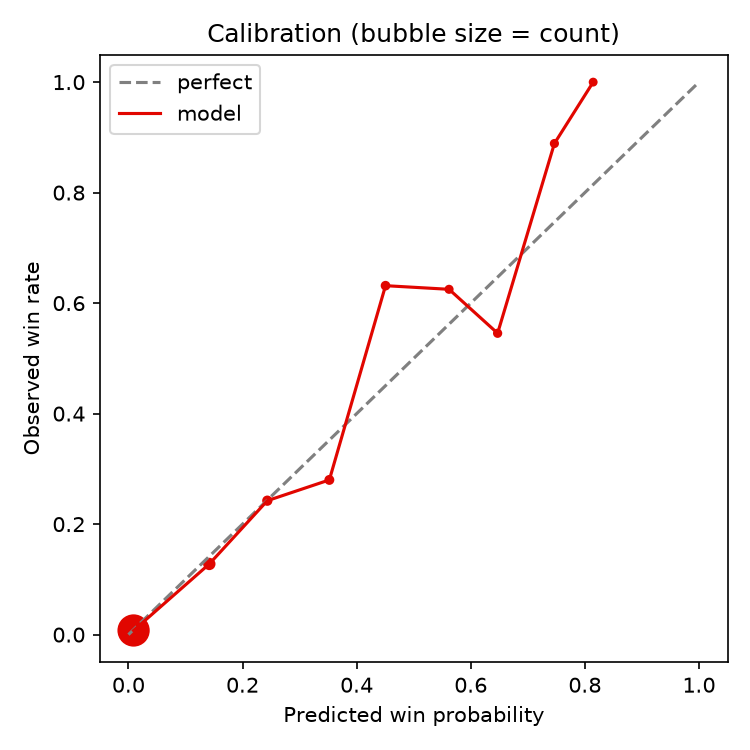
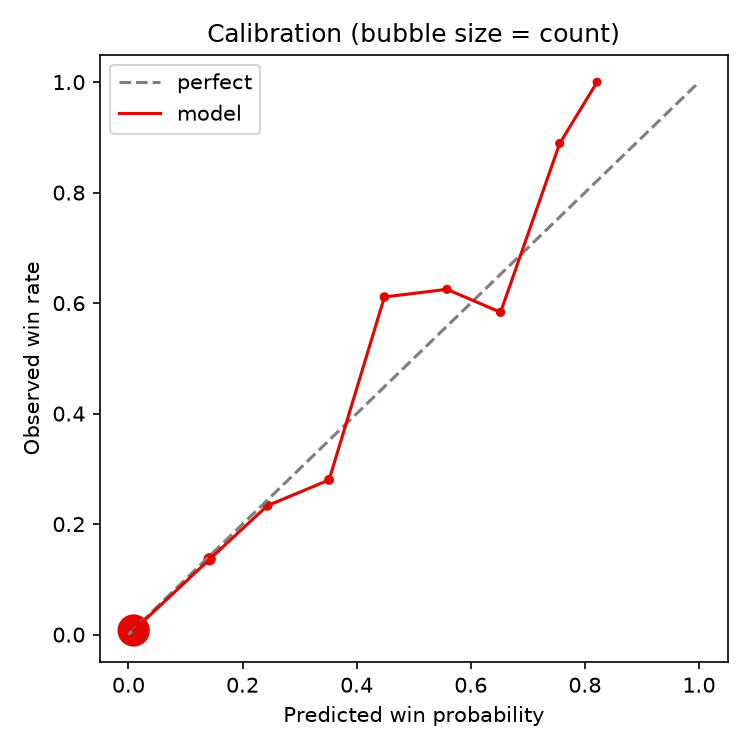
docs: driver profile results and final ablation
Claude-Session: https://claude.ai/code/session_01YJeHtrUFY8CEqTesftaBuB

diff --git a/README.md b/README.md
@@ -19,28 +19,28 @@ No qualifying data yet; running without grid
 Rain chance: 10% (forecast)
                     Azerbaijan Grand Prix 2026 (round 15)
  #   Driver                    Win   Podium   Points   Exp. pos   P10-P90
- 1   George Russell          20.1%    47.7%    87.2%        5.2      1-12
- 2   Andrea Kimi Antonelli   16.6%    43.6%    87.2%        5.4      1-12
- 3   Max Verstappen          16.2%    41.8%    86.7%        5.5      1-12
- 4   Lando Norris            13.4%    36.6%    83.6%        6.0      1-13
- 5   Oscar Piastri            8.9%    28.0%    78.3%        7.0      2-14
- 6   Charles Leclerc          7.4%    26.1%    76.5%        7.3      2-14
- 7   Lewis Hamilton           4.9%    18.1%    68.0%        8.5      2-16
- 8   Carlos Sainz             2.1%     7.6%    41.6%       11.8      4-19
- 9   Arvid Lindblad           1.8%     7.6%    46.1%       11.2      4-19
-10   Liam Lawson              1.7%     8.4%    49.1%       10.9      4-18
-11   Alexander Albon          1.3%     4.9%    29.3%       13.5      6-20
-12   Franco Colapinto         1.0%     5.2%    39.2%       12.2      5-19
-13   Gabriel Bortoleto        0.8%     4.4%    35.5%       12.7      5-20
-14   Fernando Alonso          0.7%     2.9%    24.1%       14.3      7-21
-15   Yuki Tsunoda             0.7%     2.7%    29.3%       13.6      6-20
-16   Pierre Gasly             0.6%     3.7%    33.4%       13.1      6-20
-17   Esteban Ocon             0.6%     3.2%    28.8%       13.6      6-20
-18   Nico Hülkenberg          0.5%     3.0%    27.6%       13.8      6-20
-19   Oliver Bearman           0.4%     2.6%    25.5%       14.1      7-21
-20   Sergio Pérez             0.1%     0.9%    12.4%       16.5     10-22
-21   Lance Stroll             0.1%     0.5%     6.8%       17.9     12-22
-22   Valtteri Bottas          0.0%     0.2%     3.9%       18.9     14-22
+ 1   Andrea Kimi Antonelli   17.9%    45.7%    87.5%        5.3      1-11
+ 2   George Russell          17.9%    44.4%    85.3%        5.6      1-12
+ 3   Max Verstappen          16.2%    41.2%    85.9%        5.6      1-12
+ 4   Lando Norris            13.0%    35.3%    82.2%        6.2      1-13
+ 5   Oscar Piastri            7.8%    25.1%    74.7%        7.5      2-15
+ 6   Charles Leclerc          7.5%    25.8%    75.1%        7.5      2-15
+ 7   Lewis Hamilton           5.3%    19.0%    68.2%        8.5      2-16
+ 8   Carlos Sainz             2.5%     8.7%    44.0%       11.5      4-19
+ 9   Liam Lawson              2.0%     9.4%    50.5%       10.7      4-18
+10   Arvid Lindblad           1.9%     7.9%    45.4%       11.2      4-19
+11   Alexander Albon          1.6%     5.4%    30.3%       13.3      5-20
+12   Franco Colapinto         1.2%     6.0%    40.7%       12.0      5-19
+13   Fernando Alonso          1.0%     3.4%    26.5%       13.9      6-20
+14   Gabriel Bortoleto        0.8%     4.1%    33.9%       12.9      5-20
+15   Yuki Tsunoda             0.8%     3.2%    30.1%       13.4      6-20
+16   Esteban Ocon             0.7%     3.8%    31.2%       13.2      6-20
+17   Pierre Gasly             0.7%     4.0%    33.7%       13.0      6-20
+18   Oliver Bearman           0.5%     3.0%    25.9%       14.1      7-21
+19   Nico Hülkenberg          0.4%     2.6%    24.1%       14.4      7-21
+20   Sergio Pérez             0.2%     1.1%    13.5%       16.3      9-22
+21   Lance Stroll             0.1%     0.7%     7.7%       17.8     12-22
+22   Valtteri Bottas          0.0%     0.2%     3.7%       19.0     14-22
                   * fewer than 5 rated races: low confidence
 ```
 
@@ -60,17 +60,46 @@ rest of the calendar 2,000 times and counts who ends up on top:
 ```text
            2026 drivers' championship (9 races left, 2,000 runs)
  #   Driver                  Points now   Exp. points    Title    Top 3
- 1   Andrea Kimi Antonelli          292           391    97.4%   100.0%
- 2   George Russell                 211           325     2.5%    94.8%
- 3   Lando Norris                   186           285     0.1%    54.2%
- 4   Lewis Hamilton                 191           271     0.0%    25.9%
- 5   Charles Leclerc                167           256     0.0%    12.2%
- 6   Max Verstappen                 145           256     0.0%    12.8%
- 7   Oscar Piastri                  120           194     0.0%     0.0%
- 8   Liam Lawson                     59            91     0.0%     0.0%
+ 1   Andrea Kimi Antonelli          292           393    98.5%   100.0%
+ 2   George Russell                 211           319     1.4%    92.0%
+ 3   Lando Norris                   186           283     0.1%    51.2%
+ 4   Lewis Hamilton                 191           273     0.0%    31.0%
+ 5   Max Verstappen                 145           255     0.0%    13.3%
+ 6   Charles Leclerc                167           255     0.0%    12.4%
+ 7   Oscar Piastri                  120           188     0.0%     0.0%
+ 8   Liam Lawson                     59            93     0.0%     0.0%
 ```
 
 ![Championship odds](docs/results/example-title.png)
+
+### Driver profile
+
+`f1pred profile` prints the three "mental edge" numbers for the drivers on the current grid,
+computed over the last 20 races (6 for form) after the 2026 Spanish Grand Prix. The top and
+bottom five by aggression:
+
+```text
+ Driver                  Aggression    Risk    Form   Races
+ Fernando Alonso              +0.99   +0.00   +0.94      20
+ Esteban Ocon                 +0.93   +0.00   +0.25      20
+ Carlos Sainz                 +0.79   +0.00   -0.31      20
+ Sergio Pérez                 +0.77   +6.67   +0.50      19
+ Lance Stroll                 +0.59   +0.00   +0.94      20
+ ...
+ Gabriel Bortoleto            -0.52   +0.00   +1.00      20
+ Lando Norris                 -0.72   +0.00   +0.50      20
+ Nico Hülkenberg              -1.22   +0.00   +1.12      20
+ George Russell               -1.34   +0.00   -2.19      20
+ Oscar Piastri                -1.40   +0.00   -0.81      20
+```
+
+Aggression is places gained relative to the field, so it rewards midfield drivers who start
+behind and come through, and penalises front-row starters who have nowhere to go but back.
+Risk is nearly empty on this grid because the data source has recorded a classified finishing
+position for every driver since the start of 2025, retirements included, so no 2025 or 2026
+race carries an accident-type DNF; the two non-zero values (Pérez, Bottas) are drivers whose
+20-race windows reach back into 2024, measured against a near-zero field rate. Treat the risk
+column as unreliable until the source records retirements again.
 
 ## How it works
 
@@ -114,20 +143,32 @@ wet runs use the wet ratings, wider noise and higher DNF odds. When the forecast
 reach the circuit's historical wet rate stands in. See
 [docs/weather-and-track.md](docs/weather-and-track.md).
 
+**Driver profile (mental edge).** Three numbers per driver, each computed from the races before
+the one being predicted and shrunk toward zero when the evidence is thin. *Aggression* is the
+places a driver gains on lap 1 (from the lap-times table) and over the race, relative to the
+field. *Risk* is their accident-type retirement rate relative to the field. *Form* is how far
+their last six finishes beat the position their rating expected. Aggression and form enter the
+simulation as pace, risk as wider driver noise and a higher DNF chance, all through scales that
+default to zero and are set by the tuner; `f1pred profile` prints the current numbers. See
+[docs/driver-profile.md](docs/driver-profile.md).
+
 ## Backtest results
 
-Parameters were tuned by coordinate descent on 2015 to 2022 (`f1pred tune`) with the weather
-and track knobs in the grid. It chose `k_driver = 32`, `sigma_team = 40`, `grid_bonus = 12`,
-`regress_constructor = 0.3`, `shrink_wet = shrink_track = 16`, and set both wet factors to 1.0
-(no extra noise or DNF risk in the wet); the rest stayed at their defaults. The seasons below
-were never seen by the tuner. Each race is predicted from the ratings, DNF rates, grid and
-observed weather that were known before it started. See [docs/backtesting.md](docs/backtesting.md).
+Parameters were tuned by coordinate descent on 2015 to 2022 (`f1pred tune`) with the weather,
+track and driver-profile knobs in the grid. It chose `k_driver = 32`, `sigma_team = 40`,
+`grid_bonus = 12`, `regress_constructor = 0.3`, `shrink_wet = shrink_track = 16`,
+`wet_noise_factor = 1.0` (no extra noise in the wet) and `aggression_scale = 10`; the risk and
+form scales stayed at 0 and everything else at its default, including `wet_dnf_factor = 1.5`,
+which the Phase 4 tune had set to 1.0 (the two values differ by less than 0.001 in training
+log loss, so the pick is noise). The seasons below were never seen by the tuner. Each race is
+predicted from the ratings, DNF rates, grid, observed weather and driver profile that were
+known before it started. See [docs/backtesting.md](docs/backtesting.md).
 
 | Season | Races | Log loss model | Log loss pole | Log loss uniform | Brier model | Brier pole | Brier uniform | Spearman model | Spearman pole |
 |-------:|------:|---------------:|--------------:|-----------------:|------------:|-----------:|--------------:|---------------:|--------------:|
 | 2023 | 22 | 0.59 | 1.98 | 3.00 | 0.08 | 0.09 | 0.13 | 0.79 | 0.71 |
-| 2024 | 24 | 1.74 | 2.89 | 2.99 | 0.08 | 0.09 | 0.13 | 0.80 | 0.78 |
-| 2025 | 24 | 1.33 | 1.61 | 2.99 | 0.07 | 0.06 | 0.13 | 0.64 | 0.65 |
+| 2024 | 24 | 1.76 | 2.89 | 2.99 | 0.08 | 0.09 | 0.13 | 0.80 | 0.78 |
+| 2025 | 24 | 1.35 | 1.61 | 2.99 | 0.07 | 0.06 | 0.13 | 0.63 | 0.65 |
 
 Log loss is the surprise at the actual winner (lower is better), Brier the squared error of the
 podium probabilities (lower is better), Spearman the rank correlation of expected versus actual
@@ -136,30 +177,37 @@ chance and spreads the rest evenly; "uniform" gives every driver the same chance
 
 The model beats both baselines on winner log loss in every season and beats uniform on every
 score. It is weakest where the grid already says most of what there is to say: in 2025 the
-pole baseline edges it on podium Brier and Spearman. Driver form is not yet modelled.
+pole baseline edges it on podium Brier and Spearman.
 
-### Did weather and track type help?
+### Did weather, track type and the driver profile help?
 
 `f1pred backtest --seasons 2023-2025 --ablate` scores the same seasons with each addition
 switched off and on, using the tuned parameters throughout (`base` is the Phase 3 model with
-those parameters, so its numbers differ from the earlier Phase 3 README table, which used the
-older tuning). Log loss is the winner score, Brier the podium score; lower is better for both.
+those parameters). `full` is weather plus track type with the profile off; `profile` is
+everything, and is what `f1pred predict` runs. Log loss is the winner score, Brier the podium
+score; lower is better for both.
 
 | Variant | Log loss 2023 | 2024 | 2025 | All 70 | Brier 2023 | 2024 | 2025 | All 70 |
 |:--------|--------------:|-----:|-----:|-------:|-----------:|-----:|-----:|-------:|
-| base (neither) | 0.434 | 1.935 | 1.217 | 1.217 | 0.0806 | 0.0822 | 0.0682 | 0.0769 |
-| weather | 0.442 | 1.905 | 1.240 | 1.217 | 0.0805 | 0.0805 | 0.0691 | 0.0766 |
+| base (none) | 0.434 | 1.935 | 1.217 | 1.217 | 0.0806 | 0.0822 | 0.0682 | 0.0769 |
+| weather | 0.442 | 1.908 | 1.240 | 1.218 | 0.0805 | 0.0806 | 0.0692 | 0.0767 |
 | track | 0.568 | 1.679 | 1.280 | 1.193 | 0.0793 | 0.0802 | 0.0661 | 0.0751 |
-| full (both, the default) | 0.594 | 1.736 | 1.327 | 1.237 | 0.0795 | 0.0812 | 0.0683 | 0.0763 |
+| full (weather + track) | 0.594 | 1.741 | 1.326 | 1.238 | 0.0795 | 0.0811 | 0.0682 | 0.0762 |
+| profile (everything, the default) | 0.587 | 1.760 | 1.347 | 1.250 | 0.0796 | 0.0813 | 0.0694 | 0.0767 |
 
-Track type is the only addition that improves the 70-race averages, and it does so unevenly:
-it cuts 2024's winner log loss from 1.93 to 1.68 but makes 2023 and 2025 worse. Weather is a
-wash: the tuner pushed its knobs to the values that switch the wet noise and DNF scaling off,
-and with only 52 wet races since 2010 the wet ratings move the average log loss by less than
-0.001, so with both additions on the winner score is 0.02 worse than `base` while the podium
-Brier and Spearman are marginally better. Phase 4 has not moved the headline numbers; both
-features stay on by default because the podium and ordering scores favour them, but the
-honest summary is that the grid and the overall ratings already carry most of the signal.
+Track type is still the only addition that improves the 70-race averages, and still unevenly:
+it cuts 2024's winner log loss from 1.93 to 1.68 but makes 2023 and 2025 worse. Weather
+remains a wash (the tuner keeps the wet noise factor at 1.0, and 52 wet races since 2010 move
+the wet ratings very little).
+
+The driver profile did not help. Of its four scales the tuner kept only `aggression_scale = 10`
+above zero, and that bought 0.0013 of training log loss; on the held-out seasons the `profile`
+row is 0.012 worse than `full` on winner log loss over 70 races (better in 2023, worse in 2024
+and 2025) and 0.0005 worse on podium Brier. Risk and form were set to zero by the search, so
+they are computed and printed but never enter the simulation. The profile stays on by default
+because that is what the tuner chose on the training seasons, but the honest summary is that
+the grid, the overall ratings and the track-type ratings already carry the signal, and a
+20-race window of places gained is too noisy to add to it.
 
 ![Calibration](docs/results/backtest-calibration.png)
 
@@ -172,7 +220,8 @@ uv run f1pred ratings build                        # replay 2010 onward, write p
 uv run f1pred predict --season 2026 --round 15     # or --race monza; saves outputs/2026-15-win.png and -positions.png
 uv run f1pred season --season 2026                 # title odds for the rest of the season; saves outputs/2026-title.png and CSVs
 uv run f1pred backtest --seasons 2023-2025         # score vs baselines; saves outputs/calibration.png and CSVs
-uv run f1pred backtest --ablate                    # also score with and without weather and track type; saves outputs/ablation.csv
+uv run f1pred profile                              # aggression, risk and form for the drivers on the current grid
+uv run f1pred backtest --ablate                    # also score with and without weather, track type and the driver profile; saves outputs/ablation.csv
 uv run f1pred tune                                 # coordinate descent on 2015-2022, held-out report, writes f1pred/tuned.json
 ```
 
@@ -180,14 +229,20 @@ Simulation commands take `--runs N`, `--seed N` and `--no-grid`; `predict` takes
 `--rain 0.3` to override the rain probability; every command takes `--cache-dir DIR` and the
 ones that write charts take `--out DIR`. `data update` fetches race-day rain from Open-Meteo
 (no key needed) and caches it in `data/cache/weather.parquet`, so later updates only ask about
-new races.
+new races. It also downloads the 25 MB `lap_times.csv` and keeps only the lap-1 rows in
+`data/cache/lap1.parquet`, for the aggression measure.
 
 ## Roadmap
 
-Done: Phase 4, wet/dry weather via Open-Meteo and track-type conditional ratings, judged by
-the ablation backtest (`f1pred backtest --ablate`).
+All five planned phases are done: data and the driver-race table (1), Elo ratings (2), the
+race and season Monte Carlo with the backtest and tuner (3), weather and track type (4), and
+the driver profile (5). Candidate next steps, none scheduled:
 
-- Phase 5: driver profile (aggression, risk, form) from lap-1 positions, DNF kinds and recent over-performance.
+- A qualifying-pace signal from FastF1 lap times, so the model sees car speed before the race
+  rather than only where it started.
+- Ratings that update inside a simulated season, so title odds reflect form swings and upgrades
+  instead of holding every rating fixed to the end of the year.
+- A small Streamlit dashboard over the cached outputs.
 
 ## Credits
 
